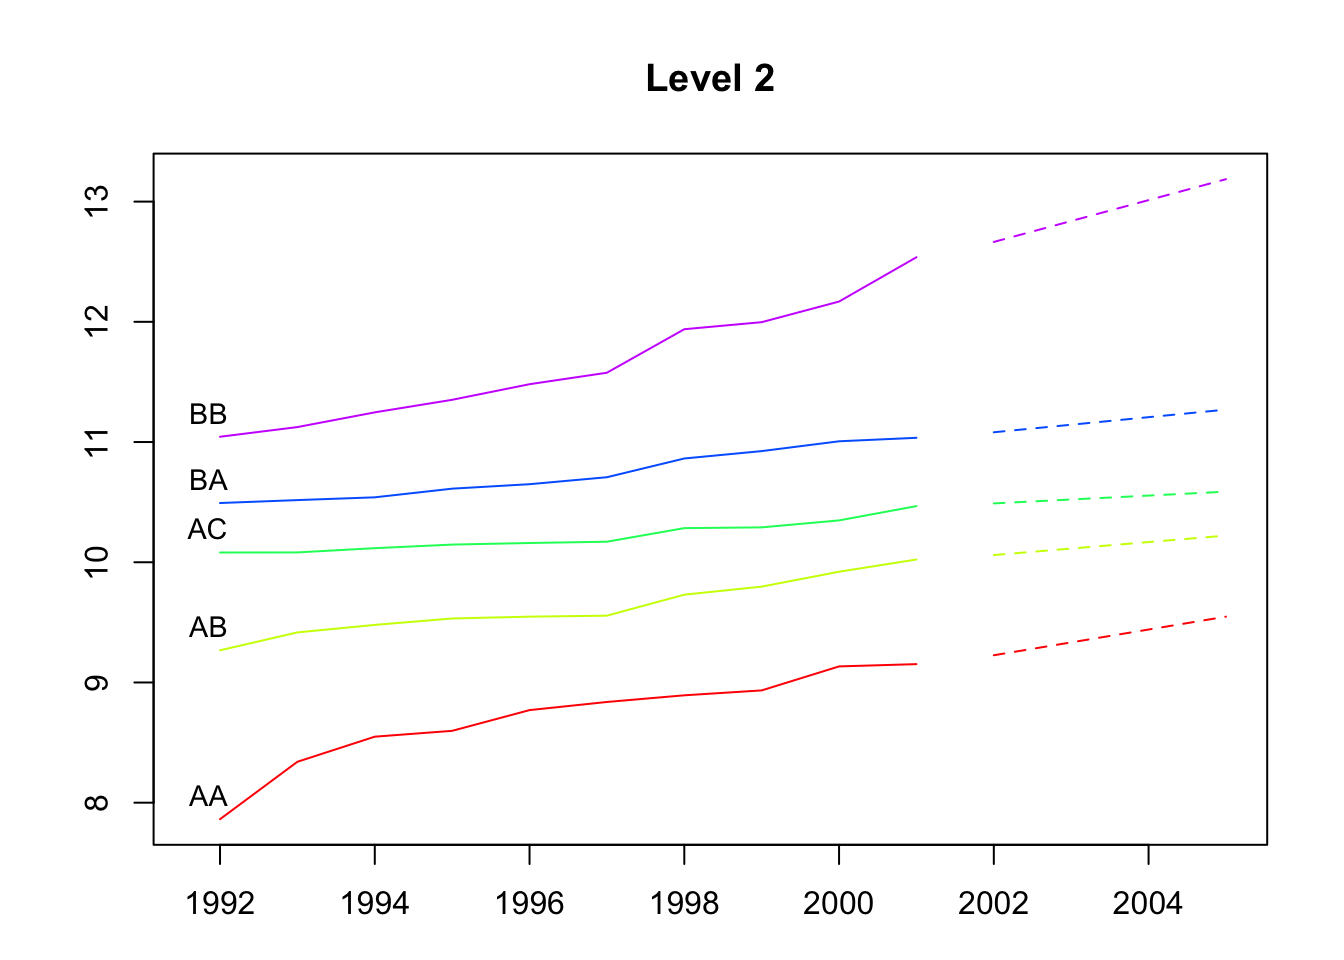
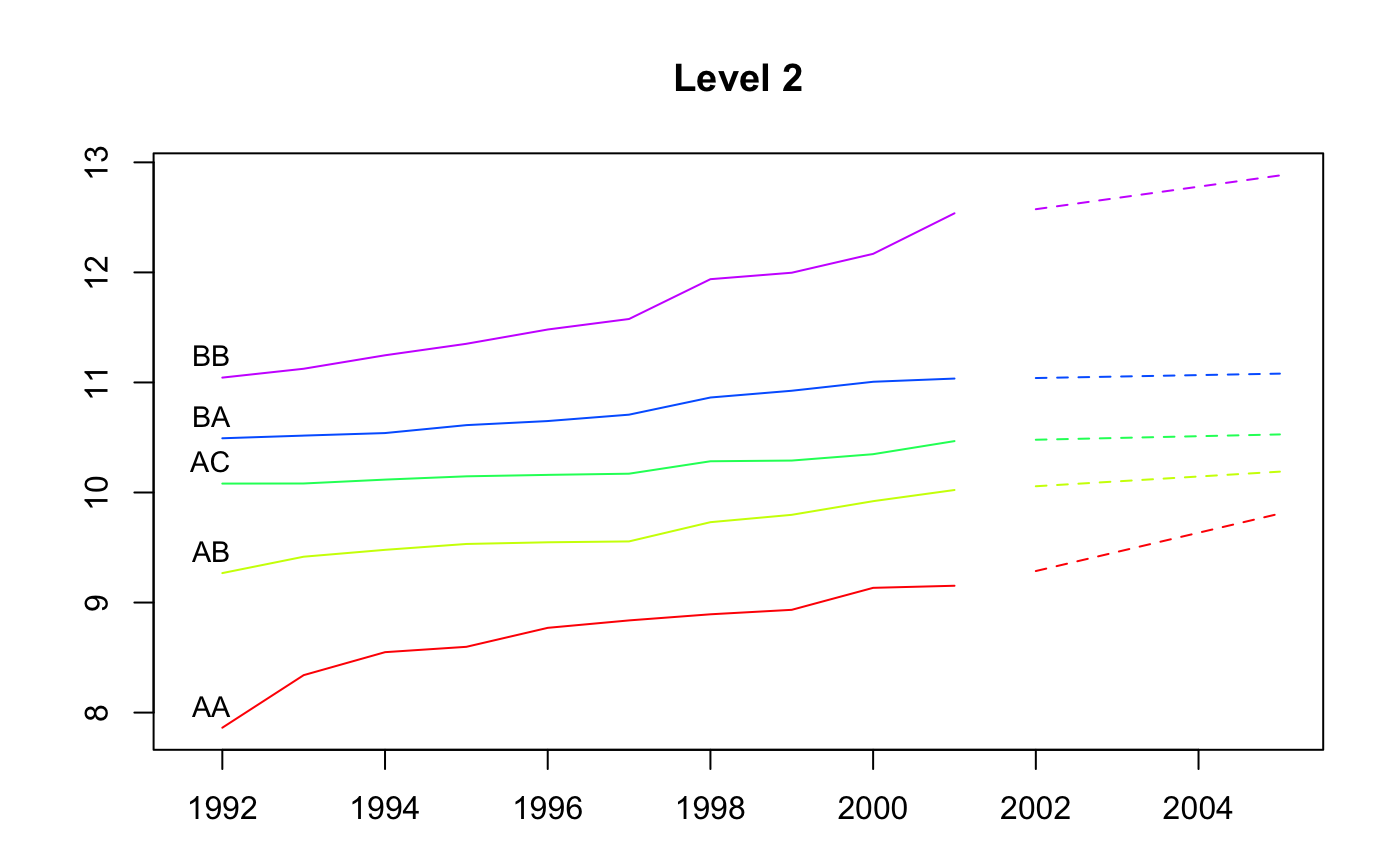
fixed bug in `forecast(weights = "wls")`

diff --git a/docs/index.html b/docs/index.html
@@ -8,10 +8,13 @@
 <title>Hierarchical and Grouped Time Series • hts</title>
 <!-- jquery --><script src="https://code.jquery.com/jquery-3.1.0.min.js" integrity="sha384-nrOSfDHtoPMzJHjVTdCopGqIqeYETSXhZDFyniQ8ZHcVy08QesyHcnOUpMpqnmWq" crossorigin="anonymous"></script><!-- Bootstrap --><link href="https://maxcdn.bootstrapcdn.com/bootswatch/3.3.7/united/bootstrap.min.css" rel="stylesheet" crossorigin="anonymous">
 <script src="https://maxcdn.bootstrapcdn.com/bootstrap/3.3.7/js/bootstrap.min.js" integrity="sha384-Tc5IQib027qvyjSMfHjOMaLkfuWVxZxUPnCJA7l2mCWNIpG9mGCD8wGNIcPD7Txa" crossorigin="anonymous"></script><!-- Font Awesome icons --><link href="https://maxcdn.bootstrapcdn.com/font-awesome/4.6.3/css/font-awesome.min.css" rel="stylesheet" integrity="sha384-T8Gy5hrqNKT+hzMclPo118YTQO6cYprQmhrYwIiQ/3axmI1hQomh7Ud2hPOy8SP1" crossorigin="anonymous">
-<!-- clipboard.js --><script src="https://cdnjs.cloudflare.com/ajax/libs/clipboard.js/1.7.1/clipboard.min.js" integrity="sha384-cV+rhyOuRHc9Ub/91rihWcGmMmCXDeksTtCihMupQHSsi8GIIRDG0ThDc3HGQFJ3" crossorigin="anonymous"></script><!-- pkgdown --><link href="pkgdown.css" rel="stylesheet">
-<script src="jquery.sticky-kit.min.js"></script><script src="pkgdown.js"></script><meta property="og:title" content="Hierarchical and Grouped Time Series">
-<meta property="og:description" content="Methods for analysing and forecasting hierarchical and grouped time
-    series.">
+<!-- clipboard.js --><script src="https://cdnjs.cloudflare.com/ajax/libs/clipboard.js/1.7.1/clipboard.min.js" integrity="sha384-cV+rhyOuRHc9Ub/91rihWcGmMmCXDeksTtCihMupQHSsi8GIIRDG0ThDc3HGQFJ3" crossorigin="anonymous"></script><!-- sticky kit --><script src="https://cdnjs.cloudflare.com/ajax/libs/sticky-kit/1.1.3/sticky-kit.min.js" integrity="sha256-c4Rlo1ZozqTPE2RLuvbusY3+SU1pQaJC0TjuhygMipw=" crossorigin="anonymous"></script><!-- pkgdown --><link href="pkgdown.css" rel="stylesheet">
+<script src="pkgdown.js"></script><meta property="og:title" content="Hierarchical and Grouped Time Series">
+<meta property="og:description" content="Provides methods for analysing and forecasting hierarchical and 
+    grouped time series. The available forecast methods include bottom-up,
+    top-down, optimal combination reconciliation (Hyndman et al. 2011) 
+    &lt;doi:10.1016/j.csda.2011.03.006&gt;, and trace minimization reconciliation
+    (Wickramasuriya et al. 2018) &lt;doi:10.1080/01621459.2018.1448825&gt;.">
 <meta name="twitter:card" content="summary">
 <!-- mathjax --><script src="https://mathjax.rstudio.com/latest/MathJax.js?config=TeX-AMS-MML_HTMLorMML"></script><!--[if lt IE 9]>
 <script src="https://oss.maxcdn.com/html5shiv/3.7.3/html5shiv.min.js"></script>
@@ -19,7 +22,7 @@
 <![endif]-->
 </head>
 <body>
-    <div class="container template-vignette">
+    <div class="container template-article">
       <header><div class="navbar navbar-default navbar-fixed-top" role="navigation">
   <div class="container">
     <div class="navbar-header">
@@ -28,8 +31,12 @@
         <span class="icon-bar"></span>
         <span class="icon-bar"></span>
       </button>
-      <a class="navbar-brand" href="index.html">hts</a>
+      <span class="navbar-brand">
+        <a class="navbar-link" href="index.html">hts</a>
+        <span class="label label-default" data-toggle="tooltip" data-placement="bottom" title="Released package">5.1.5.9000</span>
+      </span>
     </div>
+
     <div id="navbar" class="navbar-collapse collapse">
       <ul class="nav navbar-nav">
 <li>
@@ -52,16 +59,16 @@
 
       
       </header><div class="row">
-  <div class="col-md-9">
+  <div class="col-md-9 contents">
     
 
     
     
-<div class="contents">
 <!-- README.md is generated from README.Rmd. Please edit that file -->
 <div id="hts" class="section level1">
 <div class="page-header"><h1 class="hasAnchor">
-<a href="#hts" class="anchor"></a>hts</h1></div>
+<a href="#hts" class="anchor"></a>hts <img src="reference/figures/logo.png" align="right">
+</h1></div>
 
 <p>The R package <em>hts</em> presents functions to create, plot and forecast hierarchical and grouped time series.</p>
 <div id="installation" class="section level2">
@@ -116,7 +123,7 @@
 <a class="sourceLine" id="cb3-35" data-line-number="35">aggts2 &lt;-<span class="st"> </span><span class="kw"><a href="reference/aggts.html">aggts</a></span>(htseg1, <span class="dt">levels =</span> <span class="dv">1</span>)</a>
 <a class="sourceLine" id="cb3-36" data-line-number="36">aggts3 &lt;-<span class="st"> </span><span class="kw"><a href="reference/aggts.html">aggts</a></span>(htseg1, <span class="dt">levels =</span> <span class="kw">c</span>(<span class="dv">0</span>, <span class="dv">2</span>))</a>
 <a class="sourceLine" id="cb3-37" data-line-number="37"><span class="kw">plot</span>(htseg1, <span class="dt">levels =</span> <span class="dv">1</span>)</a></code></pre></div>
-<p><img src="man/figure/hts-eg1-1.png" width="672"></p>
+<p><img src="man/figure/hts-eg1-1.png" width="700"></p>
 <div class="sourceCode" id="cb4"><pre class="sourceCode r"><code class="sourceCode r"><a class="sourceLine" id="cb4-1" data-line-number="1"><span class="kw"><a href="reference/smatrix.html">smatrix</a></span>(htseg1)  <span class="co"># Return the dense mode</span></a>
 <a class="sourceLine" id="cb4-2" data-line-number="2"><span class="co">#&gt;      [,1] [,2] [,3] [,4] [,5]</span></a>
 <a class="sourceLine" id="cb4-3" data-line-number="3"><span class="co">#&gt; [1,]    1    1    1    1    1</span></a>
@@ -181,9 +188,9 @@
 <a class="sourceLine" id="cb4-62" data-line-number="62">)</a>
 <a class="sourceLine" id="cb4-63" data-line-number="63">aggts4 &lt;-<span class="st"> </span><span class="kw"><a href="reference/aggts.html">aggts</a></span>(fcasts1.comb)</a>
 <a class="sourceLine" id="cb4-64" data-line-number="64"><span class="kw">plot</span>(fcasts1.comb, <span class="dt">levels =</span> <span class="dv">2</span>)</a></code></pre></div>
-<p><img src="man/figure/hts-eg1-2.png" width="672"></p>
+<p><img src="man/figure/hts-eg1-2.png" width="700"></p>
 <div class="sourceCode" id="cb5"><pre class="sourceCode r"><code class="sourceCode r"><a class="sourceLine" id="cb5-1" data-line-number="1"><span class="kw">plot</span>(fcasts1.comb, <span class="dt">include =</span> <span class="dv">5</span>, <span class="dt">levels =</span> <span class="kw">c</span>(<span class="dv">1</span>, <span class="dv">2</span>))</a></code></pre></div>
-<p><img src="man/figure/hts-eg1-3.png" width="672"></p>
+<p><img src="man/figure/hts-eg1-3.png" width="700"></p>
 </div>
 <div id="example-2-hierarchical-time-series" class="section level3">
 <h3 class="hasAnchor">
@@ -196,58 +203,58 @@
 <a class="sourceLine" id="cb6-6" data-line-number="6">  <span class="dt">keep.fitted =</span> <span class="ot">TRUE</span>, <span class="dt">keep.resid =</span> <span class="ot">TRUE</span></a>
 <a class="sourceLine" id="cb6-7" data-line-number="7">)</a>
 <a class="sourceLine" id="cb6-8" data-line-number="8"><span class="kw"><a href="reference/accuracy.gts.html">accuracy.gts</a></span>(fcasts2.mo, test)</a>
-<a class="sourceLine" id="cb6-9" data-line-number="9"><span class="co">#&gt;            Total          A          B        A10         A20         B30</span></a>
-<a class="sourceLine" id="cb6-10" data-line-number="10"><span class="co">#&gt; ME    -0.1794783 -0.2486428 0.06916451 -0.1954860 -0.05315684 -0.02399186</span></a>
-<a class="sourceLine" id="cb6-11" data-line-number="11"><span class="co">#&gt; RMSE   0.1818643  0.2732218 0.13585344  0.2180641  0.05572214  0.03144802</span></a>
-<a class="sourceLine" id="cb6-12" data-line-number="12"><span class="co">#&gt; MAE    0.1794783  0.2486428 0.11251209  0.1954860  0.05315684  0.02399186</span></a>
-<a class="sourceLine" id="cb6-13" data-line-number="13"><span class="co">#&gt; MAPE  11.1268019  8.4004312 2.27814495  7.5371465 14.49009308  1.69936058</span></a>
-<a class="sourceLine" id="cb6-14" data-line-number="14"><span class="co">#&gt; MPE  -11.1268019  8.4004312 1.30221674  7.5371465 14.49009308 -1.69936058</span></a>
-<a class="sourceLine" id="cb6-15" data-line-number="15"><span class="co">#&gt; MASE   0.5663497  1.3950200 0.81137939  1.2966219  1.93505737  0.52639468</span></a>
-<a class="sourceLine" id="cb6-16" data-line-number="16"><span class="co">#&gt;             B40        A10A       A10B         A10C        A20A</span></a>
-<a class="sourceLine" id="cb6-17" data-line-number="17"><span class="co">#&gt; ME   0.09315637 -0.03774880 -0.1649411  0.007203920 -0.04105604</span></a>
-<a class="sourceLine" id="cb6-18" data-line-number="18"><span class="co">#&gt; RMSE 0.16498366  0.05205754  0.1779641  0.012753680  0.04696434</span></a>
-<a class="sourceLine" id="cb6-19" data-line-number="19"><span class="co">#&gt; MAE  0.13636607  0.03873088  0.1649411  0.009838328  0.04105604</span></a>
-<a class="sourceLine" id="cb6-20" data-line-number="20"><span class="co">#&gt; MAPE 3.85101876  3.11436103 20.5656022  1.774154141 13.39804861</span></a>
-<a class="sourceLine" id="cb6-21" data-line-number="21"><span class="co">#&gt; MPE  2.45900161  3.04078646 20.5656022 -1.351777719 13.39804861</span></a>
-<a class="sourceLine" id="cb6-22" data-line-number="22"><span class="co">#&gt; MASE 1.46488456  0.36661690  5.1038016  0.768361455  3.23432001</span></a>
-<a class="sourceLine" id="cb6-23" data-line-number="23"><span class="co">#&gt;             A20B         B30A       B30B       B30C       B40A      B40B</span></a>
-<a class="sourceLine" id="cb6-24" data-line-number="24"><span class="co">#&gt; ME   -0.01210080  -0.05065830 0.01324339 0.01342306 -0.0495926 0.1427490</span></a>
-<a class="sourceLine" id="cb6-25" data-line-number="25"><span class="co">#&gt; RMSE  0.01432307   0.05944454 0.01485743 0.01599316  0.0728362 0.2349335</span></a>
-<a class="sourceLine" id="cb6-26" data-line-number="26"><span class="co">#&gt; MAE   0.01228684   0.05065830 0.01324339 0.01342306  0.0495926 0.1800119</span></a>
-<a class="sourceLine" id="cb6-27" data-line-number="27"><span class="co">#&gt; MAPE 15.88898042  16.89941739 2.89472660 2.07537753  3.6008092 8.1543683</span></a>
-<a class="sourceLine" id="cb6-28" data-line-number="28"><span class="co">#&gt; MPE  15.22048749 -16.89941739 2.89472660 2.07537753 -3.6008092 6.1053561</span></a>
-<a class="sourceLine" id="cb6-29" data-line-number="29"><span class="co">#&gt; MASE  0.83150955   2.07454397 1.47284424 1.10323688  0.9554614 4.3707453</span></a>
+<a class="sourceLine" id="cb6-9" data-line-number="9"><span class="co">#&gt;           Total          A          B        A10          A20         B30</span></a>
+<a class="sourceLine" id="cb6-10" data-line-number="10"><span class="co">#&gt; ME   -0.1463168 -0.2229191 0.07660233 -0.2283919  0.005472780 -0.01989880</span></a>
+<a class="sourceLine" id="cb6-11" data-line-number="11"><span class="co">#&gt; RMSE  0.1500119  0.2452066 0.14257606  0.2523329  0.009805797  0.02928379</span></a>
+<a class="sourceLine" id="cb6-12" data-line-number="12"><span class="co">#&gt; MAE   0.1463168  0.2229191 0.11693106  0.2283919  0.009268225  0.02409282</span></a>
+<a class="sourceLine" id="cb6-13" data-line-number="13"><span class="co">#&gt; MAPE  9.3179712  7.5314777 2.36244104  8.7993966  2.460560011  1.71428541</span></a>
+<a class="sourceLine" id="cb6-14" data-line-number="14"><span class="co">#&gt; MPE  -9.3179712  7.5314777 1.45433283  8.7993966 -1.631079601 -1.39920296</span></a>
+<a class="sourceLine" id="cb6-15" data-line-number="15"><span class="co">#&gt; MASE  0.4617075  1.2506962 0.84324674  1.5148807  0.337389275  0.52860991</span></a>
+<a class="sourceLine" id="cb6-16" data-line-number="16"><span class="co">#&gt;             B40        A10A       A10B          A10C         A20A</span></a>
+<a class="sourceLine" id="cb6-17" data-line-number="17"><span class="co">#&gt; ME   0.09650113 -0.05448806 -0.1733829 -0.0005209908  0.007965591</span></a>
+<a class="sourceLine" id="cb6-18" data-line-number="18"><span class="co">#&gt; RMSE 0.17060895  0.06809235  0.1867174  0.0100661166  0.012682474</span></a>
+<a class="sourceLine" id="cb6-19" data-line-number="19"><span class="co">#&gt; MAE  0.14102388  0.05448806  0.1733829  0.0088897199  0.010413971</span></a>
+<a class="sourceLine" id="cb6-20" data-line-number="20"><span class="co">#&gt; MAPE 3.98260313  4.37476593 21.6158413  1.5612291069  3.334410408</span></a>
+<a class="sourceLine" id="cb6-21" data-line-number="21"><span class="co">#&gt; MPE  2.54768302  4.37476593 21.6158413  0.0605205225 -2.607467068</span></a>
+<a class="sourceLine" id="cb6-22" data-line-number="22"><span class="co">#&gt; MASE 1.51492018  0.51577051  5.3650162  0.6942763126  0.820393749</span></a>
+<a class="sourceLine" id="cb6-23" data-line-number="23"><span class="co">#&gt;              A20B       B30A        B30B        B30C        B40A      B40B</span></a>
+<a class="sourceLine" id="cb6-24" data-line-number="24"><span class="co">#&gt; ME   -0.002492811 0.01212900 -0.01099794 -0.02102986 -0.04273559 0.1392367</span></a>
+<a class="sourceLine" id="cb6-25" data-line-number="25"><span class="co">#&gt; RMSE  0.008654148 0.01311771  0.01422607  0.02442915  0.06656885 0.2344656</span></a>
+<a class="sourceLine" id="cb6-26" data-line-number="26"><span class="co">#&gt; MAE   0.007052515 0.01212900  0.01099794  0.02102986  0.04273559 0.1811449</span></a>
+<a class="sourceLine" id="cb6-27" data-line-number="27"><span class="co">#&gt; MAPE 13.402921842 4.13200908  2.39939647  3.26532975  3.09570196 8.2253477</span></a>
+<a class="sourceLine" id="cb6-28" data-line-number="28"><span class="co">#&gt; MPE  -2.981389244 4.13200908 -2.39939647 -3.26532975 -3.09570196 5.9207223</span></a>
+<a class="sourceLine" id="cb6-29" data-line-number="29"><span class="co">#&gt; MASE  0.477277465 0.49670326  1.22312029  1.72843722  0.82335272 4.3982548</span></a>
 <a class="sourceLine" id="cb6-30" data-line-number="30"><span class="kw"><a href="reference/accuracy.gts.html">accuracy.gts</a></span>(fcasts2.mo, test, <span class="dt">levels =</span> <span class="dv">1</span>)</a>
 <a class="sourceLine" id="cb6-31" data-line-number="31"><span class="co">#&gt;               A          B</span></a>
-<a class="sourceLine" id="cb6-32" data-line-number="32"><span class="co">#&gt; ME   -0.2486428 0.06916451</span></a>
-<a class="sourceLine" id="cb6-33" data-line-number="33"><span class="co">#&gt; RMSE  0.2732218 0.13585344</span></a>
-<a class="sourceLine" id="cb6-34" data-line-number="34"><span class="co">#&gt; MAE   0.2486428 0.11251209</span></a>
-<a class="sourceLine" id="cb6-35" data-line-number="35"><span class="co">#&gt; MAPE  8.4004312 2.27814495</span></a>
-<a class="sourceLine" id="cb6-36" data-line-number="36"><span class="co">#&gt; MPE   8.4004312 1.30221674</span></a>
-<a class="sourceLine" id="cb6-37" data-line-number="37"><span class="co">#&gt; MASE  1.3950200 0.81137939</span></a>
+<a class="sourceLine" id="cb6-32" data-line-number="32"><span class="co">#&gt; ME   -0.2229191 0.07660233</span></a>
+<a class="sourceLine" id="cb6-33" data-line-number="33"><span class="co">#&gt; RMSE  0.2452066 0.14257606</span></a>
+<a class="sourceLine" id="cb6-34" data-line-number="34"><span class="co">#&gt; MAE   0.2229191 0.11693106</span></a>
+<a class="sourceLine" id="cb6-35" data-line-number="35"><span class="co">#&gt; MAPE  7.5314777 2.36244104</span></a>
+<a class="sourceLine" id="cb6-36" data-line-number="36"><span class="co">#&gt; MPE   7.5314777 1.45433283</span></a>
+<a class="sourceLine" id="cb6-37" data-line-number="37"><span class="co">#&gt; MASE  1.2506962 0.84324674</span></a>
 <a class="sourceLine" id="cb6-38" data-line-number="38">fcasts2.td &lt;-<span class="st"> </span><span class="kw">forecast</span>(</a>
 <a class="sourceLine" id="cb6-39" data-line-number="39">  data, <span class="dt">h =</span> <span class="dv">5</span>, <span class="dt">method =</span> <span class="st">"tdgsa"</span>, <span class="dt">fmethod =</span> <span class="st">"ets"</span>, </a>
 <a class="sourceLine" id="cb6-40" data-line-number="40">  <span class="dt">keep.fitted =</span> <span class="ot">TRUE</span>, <span class="dt">keep.resid =</span> <span class="ot">TRUE</span></a>
 <a class="sourceLine" id="cb6-41" data-line-number="41">)</a>
 <a class="sourceLine" id="cb6-42" data-line-number="42"><span class="kw">plot</span>(fcasts2.td, <span class="dt">include =</span> <span class="dv">5</span>)</a></code></pre></div>
-<p><img src="man/figure/hts-eg2-1.png" width="672"></p>
+<p><img src="man/figure/hts-eg2-1.png" width="700"></p>
 <div class="sourceCode" id="cb7"><pre class="sourceCode r"><code class="sourceCode r"><a class="sourceLine" id="cb7-1" data-line-number="1"><span class="kw">plot</span>(fcasts2.td, <span class="dt">include =</span> <span class="dv">5</span>, <span class="dt">levels =</span> <span class="kw">c</span>(<span class="dv">0</span>, <span class="dv">2</span>))</a></code></pre></div>
-<p><img src="man/figure/hts-eg2-2.png" width="672"></p>
+<p><img src="man/figure/hts-eg2-2.png" width="700"></p>
 </div>
 <div id="example-3-grouped-time-series" class="section level3">
 <h3 class="hasAnchor">
 <a href="#example-3-grouped-time-series" class="anchor"></a>Example 3: grouped time series</h3>
 <div class="sourceCode" id="cb8"><pre class="sourceCode r"><code class="sourceCode r"><a class="sourceLine" id="cb8-1" data-line-number="1"><span class="co"># gts example</span></a>
 <a class="sourceLine" id="cb8-2" data-line-number="2"><span class="kw">plot</span>(infantgts, <span class="dt">levels =</span> <span class="dv">1</span>)</a></code></pre></div>
-<p><img src="man/figure/gts-eg-1.png" width="672"></p>
+<p><img src="man/figure/gts-eg-1.png" width="700"></p>
 <div class="sourceCode" id="cb9"><pre class="sourceCode r"><code class="sourceCode r"><a class="sourceLine" id="cb9-1" data-line-number="1"></a>
 <a class="sourceLine" id="cb9-2" data-line-number="2">fcasts3.comb &lt;-<span class="st"> </span><span class="kw">forecast</span>(infantgts, <span class="dt">h =</span> <span class="dv">4</span>, <span class="dt">method =</span> <span class="st">"comb"</span>, <span class="dt">fmethod =</span> <span class="st">"ets"</span>)</a>
 <a class="sourceLine" id="cb9-3" data-line-number="3">agg_gts1 &lt;-<span class="st"> </span><span class="kw"><a href="reference/aggts.html">aggts</a></span>(fcasts3.comb, <span class="dt">levels =</span> <span class="dv">1</span>)</a>
 <a class="sourceLine" id="cb9-4" data-line-number="4">agg_gts2 &lt;-<span class="st"> </span><span class="kw"><a href="reference/aggts.html">aggts</a></span>(fcasts3.comb, <span class="dt">levels =</span> <span class="dv">1</span>, <span class="dt">forecasts =</span> <span class="ot">FALSE</span>)</a>
 <a class="sourceLine" id="cb9-5" data-line-number="5"><span class="kw">plot</span>(fcasts3.comb)</a></code></pre></div>
-<p><img src="man/figure/gts-eg-2.png" width="672"></p>
+<p><img src="man/figure/gts-eg-2.png" width="700"></p>
 <div class="sourceCode" id="cb10"><pre class="sourceCode r"><code class="sourceCode r"><a class="sourceLine" id="cb10-1" data-line-number="1"><span class="kw">plot</span>(fcasts3.comb, <span class="dt">include =</span> <span class="dv">5</span>, <span class="dt">levels =</span> <span class="kw">c</span>(<span class="dv">1</span>, <span class="dv">2</span>))</a></code></pre></div>
-<p><img src="man/figure/gts-eg-3.png" width="672"></p>
+<p><img src="man/figure/gts-eg-3.png" width="700"></p>
 <div class="sourceCode" id="cb11"><pre class="sourceCode r"><code class="sourceCode r"><a class="sourceLine" id="cb11-1" data-line-number="1"></a>
 <a class="sourceLine" id="cb11-2" data-line-number="2">fcasts3.combsd &lt;-<span class="st"> </span><span class="kw">forecast</span>(</a>
 <a class="sourceLine" id="cb11-3" data-line-number="3">  infantgts, <span class="dt">h =</span> <span class="dv">4</span>, <span class="dt">method =</span> <span class="st">"comb"</span>, <span class="dt">fmethod =</span> <span class="st">"ets"</span>,</a>
@@ -264,7 +271,6 @@
 <h2 class="hasAnchor">
 <a href="#license" class="anchor"></a>License</h2>
 <p>This package is free and open source software, licensed under GPL (&gt;= 2).</p>
-</div>
 </div>
 </div>
   </div>
@@ -324,6 +330,8 @@
 
       </footer>
 </div>
+
+  
 
   </body>
 </html>

diff --git a/docs/authors.html b/docs/authors.html
@@ -21,11 +21,19 @@
 <!-- clipboard.js -->
 <script src="https://cdnjs.cloudflare.com/ajax/libs/clipboard.js/1.7.1/clipboard.min.js" integrity="sha384-cV+rhyOuRHc9Ub/91rihWcGmMmCXDeksTtCihMupQHSsi8GIIRDG0ThDc3HGQFJ3" crossorigin="anonymous"></script>
 
+<!-- sticky kit -->
+<script src="https://cdnjs.cloudflare.com/ajax/libs/sticky-kit/1.1.3/sticky-kit.min.js" integrity="sha256-c4Rlo1ZozqTPE2RLuvbusY3+SU1pQaJC0TjuhygMipw=" crossorigin="anonymous"></script>
+
 <!-- pkgdown -->
 <link href="pkgdown.css" rel="stylesheet">
-<script src="jquery.sticky-kit.min.js"></script>
 <script src="pkgdown.js"></script>
+
+
+
 <meta property="og:title" content="Authors" />
+
+
+
 <!-- mathjax -->
 <script src='https://mathjax.rstudio.com/latest/MathJax.js?config=TeX-AMS-MML_HTMLorMML'></script>
 
@@ -48,8 +56,12 @@
         <span class="icon-bar"></span>
         <span class="icon-bar"></span>
       </button>
-      <a class="navbar-brand" href="index.html">hts</a>
+      <span class="navbar-brand">
+        <a class="navbar-link" href="index.html">hts</a>
+        <span class="label label-default" data-toggle="tooltip" data-placement="bottom" title="Released package">5.1.5.9000</span>
+      </span>
     </div>
+
     <div id="navbar" class="navbar-collapse collapse">
       <ul class="nav navbar-nav">
         <li>
@@ -66,6 +78,7 @@
       <ul class="nav navbar-nav navbar-right">
         
       </ul>
+      
     </div><!--/.nav-collapse -->
   </div><!--/.container -->
 </div><!--/.navbar -->
@@ -73,8 +86,8 @@
       
       </header>
 
-      <div class="row">
-  <div class="contents col-md-12">
+<div class="row">
+  <div class="contents col-md-9">
     <div class="page-header">
       <h1>Authors</h1>
     </div>
@@ -114,6 +127,8 @@
 
       </footer>
    </div>
+
+  
 
   </body>
 </html>

diff --git a/README.md b/README.md
@@ -1,7 +1,7 @@
 
 <!-- README.md is generated from README.Rmd. Please edit that file -->
 
-# hts
+# hts <img src="man/figures/logo.png" align="right" />
 
 [![Travis-CI Build
 Status](https://travis-ci.org/earowang/hts.svg?branch=master)](https://travis-ci.org/earowang/hts)
@@ -161,35 +161,35 @@ fcasts2.mo <- forecast(
   keep.fitted = TRUE, keep.resid = TRUE
 )
 accuracy.gts(fcasts2.mo, test)
-#>            Total          A          B        A10         A20         B30
-#> ME    -0.1794783 -0.2486428 0.06916451 -0.1954860 -0.05315684 -0.02399186
-#> RMSE   0.1818643  0.2732218 0.13585344  0.2180641  0.05572214  0.03144802
-#> MAE    0.1794783  0.2486428 0.11251209  0.1954860  0.05315684  0.02399186
-#> MAPE  11.1268019  8.4004312 2.27814495  7.5371465 14.49009308  1.69936058
-#> MPE  -11.1268019  8.4004312 1.30221674  7.5371465 14.49009308 -1.69936058
-#> MASE   0.5663497  1.3950200 0.81137939  1.2966219  1.93505737  0.52639468
-#>             B40        A10A       A10B         A10C        A20A
-#> ME   0.09315637 -0.03774880 -0.1649411  0.007203920 -0.04105604
-#> RMSE 0.16498366  0.05205754  0.1779641  0.012753680  0.04696434
-#> MAE  0.13636607  0.03873088  0.1649411  0.009838328  0.04105604
-#> MAPE 3.85101876  3.11436103 20.5656022  1.774154141 13.39804861
-#> MPE  2.45900161  3.04078646 20.5656022 -1.351777719 13.39804861
-#> MASE 1.46488456  0.36661690  5.1038016  0.768361455  3.23432001
-#>             A20B         B30A       B30B       B30C       B40A      B40B
-#> ME   -0.01210080  -0.05065830 0.01324339 0.01342306 -0.0495926 0.1427490
-#> RMSE  0.01432307   0.05944454 0.01485743 0.01599316  0.0728362 0.2349335
-#> MAE   0.01228684   0.05065830 0.01324339 0.01342306  0.0495926 0.1800119
-#> MAPE 15.88898042  16.89941739 2.89472660 2.07537753  3.6008092 8.1543683
-#> MPE  15.22048749 -16.89941739 2.89472660 2.07537753 -3.6008092 6.1053561
-#> MASE  0.83150955   2.07454397 1.47284424 1.10323688  0.9554614 4.3707453
+#>           Total          A          B        A10          A20         B30
+#> ME   -0.1463168 -0.2229191 0.07660233 -0.2283919  0.005472780 -0.01989880
+#> RMSE  0.1500119  0.2452066 0.14257606  0.2523329  0.009805797  0.02928379
+#> MAE   0.1463168  0.2229191 0.11693106  0.2283919  0.009268225  0.02409282
+#> MAPE  9.3179712  7.5314777 2.36244104  8.7993966  2.460560011  1.71428541
+#> MPE  -9.3179712  7.5314777 1.45433283  8.7993966 -1.631079601 -1.39920296
+#> MASE  0.4617075  1.2506962 0.84324674  1.5148807  0.337389275  0.52860991
+#>             B40        A10A       A10B          A10C         A20A
+#> ME   0.09650113 -0.05448806 -0.1733829 -0.0005209908  0.007965591
+#> RMSE 0.17060895  0.06809235  0.1867174  0.0100661166  0.012682474
+#> MAE  0.14102388  0.05448806  0.1733829  0.0088897199  0.010413971
+#> MAPE 3.98260313  4.37476593 21.6158413  1.5612291069  3.334410408
+#> MPE  2.54768302  4.37476593 21.6158413  0.0605205225 -2.607467068
+#> MASE 1.51492018  0.51577051  5.3650162  0.6942763126  0.820393749
+#>              A20B       B30A        B30B        B30C        B40A      B40B
+#> ME   -0.002492811 0.01212900 -0.01099794 -0.02102986 -0.04273559 0.1392367
+#> RMSE  0.008654148 0.01311771  0.01422607  0.02442915  0.06656885 0.2344656
+#> MAE   0.007052515 0.01212900  0.01099794  0.02102986  0.04273559 0.1811449
+#> MAPE 13.402921842 4.13200908  2.39939647  3.26532975  3.09570196 8.2253477
+#> MPE  -2.981389244 4.13200908 -2.39939647 -3.26532975 -3.09570196 5.9207223
+#> MASE  0.477277465 0.49670326  1.22312029  1.72843722  0.82335272 4.3982548
 accuracy.gts(fcasts2.mo, test, levels = 1)
 #>               A          B
-#> ME   -0.2486428 0.06916451
-#> RMSE  0.2732218 0.13585344
-#> MAE   0.2486428 0.11251209
-#> MAPE  8.4004312 2.27814495
-#> MPE   8.4004312 1.30221674
-#> MASE  1.3950200 0.81137939
+#> ME   -0.2229191 0.07660233
+#> RMSE  0.2452066 0.14257606
+#> MAE   0.2229191 0.11693106
+#> MAPE  7.5314777 2.36244104
+#> MPE   7.5314777 1.45433283
+#> MASE  1.2506962 0.84324674
 fcasts2.td <- forecast(
   data, h = 5, method = "tdgsa", fmethod = "ets", 
   keep.fitted = TRUE, keep.resid = TRUE

diff --git a/NEWS.md b/NEWS.md
@@ -1,3 +1,7 @@
+# hts 5.1.5.9000
+
+* Fixed bug in `forecast(weights = "wls")` for removing the squared root, as it's been done in following functions.
+
 # hts 5.1.5
 
 * Fixed hts authorship in the DESCRIPTION file
